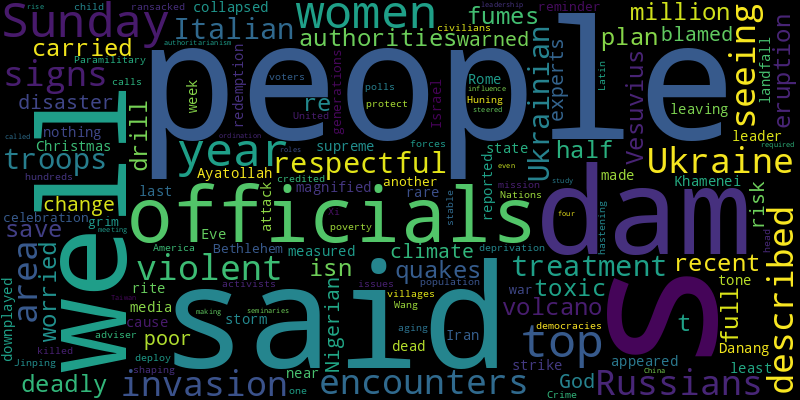
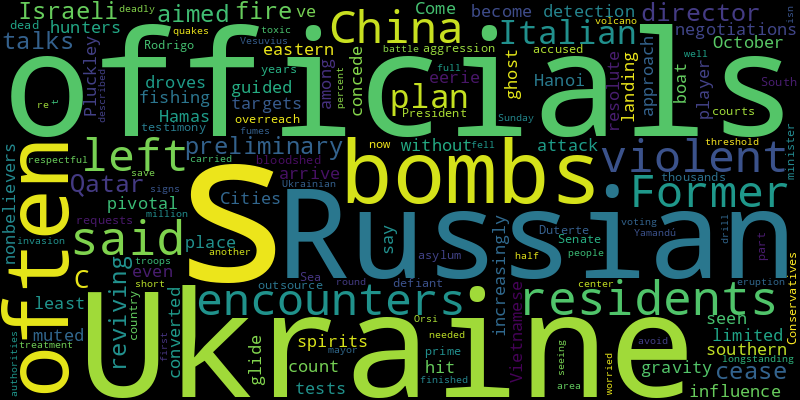
chore(bot): 🙈 auto commit

diff --git a/README.md b/README.md
@@ -2,41 +2,41 @@
 Auto RSS New York Times and Generate Word Cloud
 
 ## New York Times Global News
+* The director of the C.I.A. was in Qatar for preliminary talks with Israeli officials aimed at reviving cease-fire negotiations with Hamas.
+* A once pivotal player has seen its influence become limited.
+* Cities in eastern and southern Ukraine are increasingly being hit by Russian glide bombs, converted gravity bombs that can be guided to targets, often landing without detection, residents and officials say.
+* Pluckley is said to count at least 12 spirits among its 1,000 residents. Come October, ghost hunters arrive in droves to a place where even nonbelievers concede they’ve had eerie encounters.
+* A violent attack on a Vietnamese fishing boat tests Hanoi’s muted but resolute approach to China’s aggression in the South China Sea.
+* Former President Rodrigo Duterte was defiant in Senate testimony about the years of bloodshed that left thousands dead. “I did it for my country,” he said.
+* Conservatives have often accused the Italian courts of overreach. The prime minister’s plan to outsource asylum requests is now part of that longstanding battle.
+* Yamandú Orsi, a center-left former mayor, finished first on Sunday but fell short of the 50 percent threshold needed to avoid another round of voting.
 * Russians in the area of Ukraine’s invasion have described seeing signs of violent encounters, as well as respectful treatment from Ukrainian troops.
 * The Italian authorities carried out a drill of their plan to save a half-million people from toxic fumes, deadly quakes or a full eruption. Vesuvius isn’t the volcano they’re worried about.
-* After a recent dam disaster, Nigerian officials blamed God, climate change and poor people. But experts had warned the dam was at risk well before it collapsed. The officials did nothing.
-* Ayatollah Khamenei, Iran’s supreme leader, appeared to strike a measured tone. He said Israel’s attack should not be “magnified or downplayed,” state media reported.
-* The storm made landfall near Danang on Sunday after leaving at least 80 people dead last week.
-* For Rome, the rare Christmas Eve rite of redemption is cause for celebration this year. For Bethlehem, it is another grim reminder of the generations of war and deprivation.
-* Crime, child poverty and an aging population are top issues as voters in one of Latin America’s most stable democracies head to the polls on Sunday.
-* Paramilitary forces ransacked villages and killed hundreds of people, activists said, hastening calls for the United Nations to deploy a mission to protect civilians.
-* Xi Jinping’s top adviser, Wang Huning, is credited with shaping the authoritarianism that steered China’s rise. But can he influence Taiwan?
-* A meeting four years in the making said the ordination of women required further study, but it called for women to have more leadership roles, even in seminaries.
 
 ![Global](./global.png)
 ## New York Times United States News
-* In Aliquippa, Pa., residents have long believed more in their high school football team than in many politicians. Can combining the two make a difference?
-* Democrats swept a school board election in Bucks County after Republicans instituted book bans and other changes. But the right-wing “parental rights” movement has left an indelible mark.
-* A ballot measure would do away with the requirement that high schoolers pass a test to graduate. Opponents say it could water down academics for struggling students.
-* After two heat strokes and damaged kidneys, José Delgado remains stunned that Florida banned counties from enacting protections for outdoor workers.
-* Sunday’s rally at Madison Square Garden, the self-styled “world’s most famous arena,” is a remarkable gambit, even by the former president’s standards — and a show of force.
-* Nearly half say it does not do a good job representing the people, and three-quarters say it is under threat, according to a Times/Siena poll.
-* Plenty of presidents have been called dictators by their political opponents, but none until now has been publicly accused of being a “fascist” by his own handpicked advisers.
-* Georgia has seen a flurry of activity underlining both parties’ recognition that, once again, the state is anyone’s to win.
-* If he wins the White House, Donald J. Trump, who has a sentencing hearing three weeks after Election Day, could disrupt or even dispose of the various cases he is facing.
-* After Aiden Clark was killed in a school bus accident in Springfield, Ohio, his death inspired conspiracy theories, campaign lies and  anti-immigrant hate. Now his family is the latest target.
+* Dozens of volunteer doctors, nurses and psychologists traveled to the region to treat people whose routines, including medical appointments, were disrupted by the storm.
+* Universities have cracked down on professors for pro-Palestinian activism, saying they are protecting students and tamping down on hate speech. Faculty members say punishments have put a “chill in the air.”
+* As Kamala Harris toiled as a junior prosecutor in Alameda County, Calif., she developed important connections among San Francisco’s financial and social elite.
+* Environmentalists and one of the world’s biggest oil companies support Washington State’s cap on carbon. But voters are deciding whether to repeal the law amid concerns about energy costs.
+* In Nebraska, Dan Osborn, an independent, is in a tight race with Senator Deb Fischer, and in Texas, Representative Colin Allred is four percentage points behind Senator Ted Cruz.
+* Local governments often face extra fees when employees get out-of-network medical care, but some don’t track the insurance charges or even know about them.
+* The inflammatory rally was a capstone for an increasingly aggrieved campaign for Donald Trump, whose rhetoric has grown darker and more menacing.
+* Her campaign moved swiftly to highlight that even as a speaker at Donald Trump’s rally in New York made offensive remarks about Puerto Rico and Latinos, she was visiting Puerto Rican voters in Philadelphia.
+* Donald J. Trump’s rally at Madison Square Garden began with warm-up speakers who made a litany of racist remarks, vulgar insults and profanity-laden comments.
+* Playing Madden football and Crazy Taxi, Mr. Walz discussed building coalitions and opposing the Senate’s filibuster with Ms. Ocasio-Cortez on Twitch.
 
 ![US](./usnews.png)
 ## New York Times Asia News
+* Former President Rodrigo Duterte was defiant in Senate testimony about the years of bloodshed that left thousands dead. “I did it for my country,” he said.
+* State-controlled companies now run an industry once known for its acid pits, radioactive waste and smugglers.
+* A violent attack on a Vietnamese fishing boat tests Hanoi’s muted but resolute approach to China’s aggression in the South China Sea.
+* Plus, a long-lost Chopin waltz.
 * The storm made landfall near Danang on Sunday after leaving at least 80 people dead last week.
-* The Japanese electorate seemed poised to punish the Liberal Democrats, even if it does not go so far as to hand power to the opposition.
+* The Japanese electorate appeared to punish the Liberal Democrats, leaving it unclear whether the party would be forced to expand its coalition to stay in power.
 * A Hindu politician has accused his Christian predecessor of allowing a temple’s sanctity to be violated with an animal product.
 * Over the last month, North Korea’s role aiding Russia in its war in Ukraine has significantly escalated. U.S. officials reported that North Korean soldiers are already operating in the Kursk region in western Russia, where Ukrainian forces are staging a counteroffensive. Michael Shear, a White House correspondent for The New York Times, explains what the deeping relationship between Russia and North Korea means for the war in Ukraine and the world.
+* A group that experts call Salt Typhoon is believed to be behind a sophisticated breach of major telecommunication companies that has taken aim at American leaders.
 * Already the dominant producer of rare minerals, Beijing is using export restrictions and its power over state-owned companies to further control access.
-* Xi Jinping’s top adviser, Wang Huning, is credited with shaping the authoritarianism that steered China’s rise. But can he influence Taiwan?
-* Thousands of soldiers from an elite unit of the Korean People’s Army began arriving on Wednesday and are expected to try to help expel Ukrainian forces from Russian territory.
-* Footage was filmed in the Russian Far East, which the United States says is hosting thousands of North Korean soldiers.
-* The targeting of the Republican presidential ticket’s phones is part of what appears to be a wide-ranging effort to gather information about American leaders.
-* At a meeting of emerging economies, Vladimir Putin positioned himself as a respected and powerful leader, ignoring the condemnation he receives from the West.
 
 ![Asian](./asian.png)

diff --git a/archive/2024-10-27.md b/archive/2024-10-27.md
@@ -1,0 +1,42 @@
+# NewsArchive
+Auto RSS New York Times and Generate Word Cloud
+
+## New York Times Global News
+* Russians in the area of Ukraine’s invasion have described seeing signs of violent encounters, as well as respectful treatment from Ukrainian troops.
+* The Italian authorities carried out a drill of their plan to save a half-million people from toxic fumes, deadly quakes or a full eruption. Vesuvius isn’t the volcano they’re worried about.
+* After a recent dam disaster, Nigerian officials blamed God, climate change and poor people. But experts had warned the dam was at risk well before it collapsed. The officials did nothing.
+* Ayatollah Khamenei, Iran’s supreme leader, appeared to strike a measured tone. He said Israel’s attack should not be “magnified or downplayed,” state media reported.
+* The storm made landfall near Danang on Sunday after leaving at least 80 people dead last week.
+* For Rome, the rare Christmas Eve rite of redemption is cause for celebration this year. For Bethlehem, it is another grim reminder of the generations of war and deprivation.
+* Crime, child poverty and an aging population are top issues as voters in one of Latin America’s most stable democracies head to the polls on Sunday.
+* Paramilitary forces ransacked villages and killed hundreds of people, activists said, hastening calls for the United Nations to deploy a mission to protect civilians.
+* Xi Jinping’s top adviser, Wang Huning, is credited with shaping the authoritarianism that steered China’s rise. But can he influence Taiwan?
+* A meeting four years in the making said the ordination of women required further study, but it called for women to have more leadership roles, even in seminaries.
+
+![Global](./global.png)
+## New York Times United States News
+* In Aliquippa, Pa., residents have long believed more in their high school football team than in many politicians. Can combining the two make a difference?
+* Democrats swept a school board election in Bucks County after Republicans instituted book bans and other changes. But the right-wing “parental rights” movement has left an indelible mark.
+* A ballot measure would do away with the requirement that high schoolers pass a test to graduate. Opponents say it could water down academics for struggling students.
+* After two heat strokes and damaged kidneys, José Delgado remains stunned that Florida banned counties from enacting protections for outdoor workers.
+* Sunday’s rally at Madison Square Garden, the self-styled “world’s most famous arena,” is a remarkable gambit, even by the former president’s standards — and a show of force.
+* Nearly half say it does not do a good job representing the people, and three-quarters say it is under threat, according to a Times/Siena poll.
+* Plenty of presidents have been called dictators by their political opponents, but none until now has been publicly accused of being a “fascist” by his own handpicked advisers.
+* Georgia has seen a flurry of activity underlining both parties’ recognition that, once again, the state is anyone’s to win.
+* If he wins the White House, Donald J. Trump, who has a sentencing hearing three weeks after Election Day, could disrupt or even dispose of the various cases he is facing.
+* After Aiden Clark was killed in a school bus accident in Springfield, Ohio, his death inspired conspiracy theories, campaign lies and  anti-immigrant hate. Now his family is the latest target.
+
+![US](./usnews.png)
+## New York Times Asia News
+* The storm made landfall near Danang on Sunday after leaving at least 80 people dead last week.
+* The Japanese electorate seemed poised to punish the Liberal Democrats, even if it does not go so far as to hand power to the opposition.
+* A Hindu politician has accused his Christian predecessor of allowing a temple’s sanctity to be violated with an animal product.
+* Over the last month, North Korea’s role aiding Russia in its war in Ukraine has significantly escalated. U.S. officials reported that North Korean soldiers are already operating in the Kursk region in western Russia, where Ukrainian forces are staging a counteroffensive. Michael Shear, a White House correspondent for The New York Times, explains what the deeping relationship between Russia and North Korea means for the war in Ukraine and the world.
+* Already the dominant producer of rare minerals, Beijing is using export restrictions and its power over state-owned companies to further control access.
+* Xi Jinping’s top adviser, Wang Huning, is credited with shaping the authoritarianism that steered China’s rise. But can he influence Taiwan?
+* Thousands of soldiers from an elite unit of the Korean People’s Army began arriving on Wednesday and are expected to try to help expel Ukrainian forces from Russian territory.
+* Footage was filmed in the Russian Far East, which the United States says is hosting thousands of North Korean soldiers.
+* The targeting of the Republican presidential ticket’s phones is part of what appears to be a wide-ranging effort to gather information about American leaders.
+* At a meeting of emerging economies, Vladimir Putin positioned himself as a respected and powerful leader, ignoring the condemnation he receives from the West.
+
+![Asian](./asian.png)
